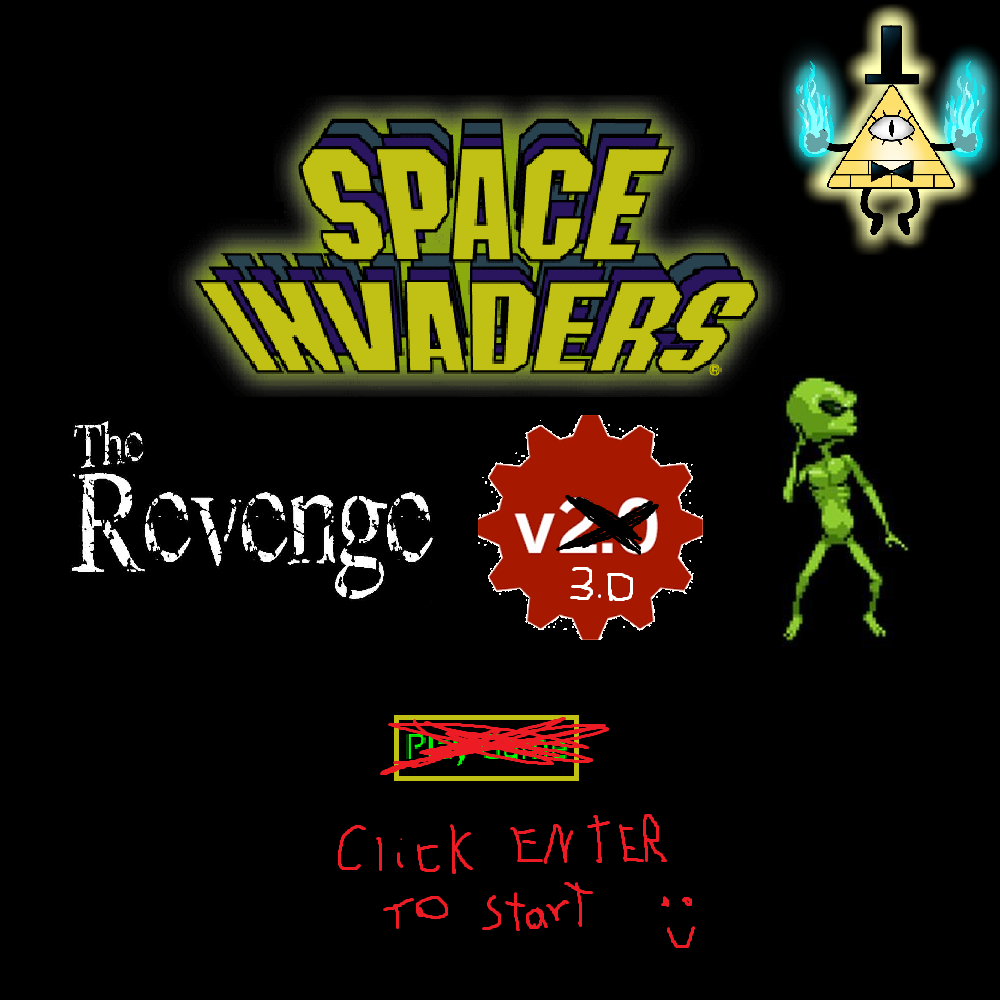
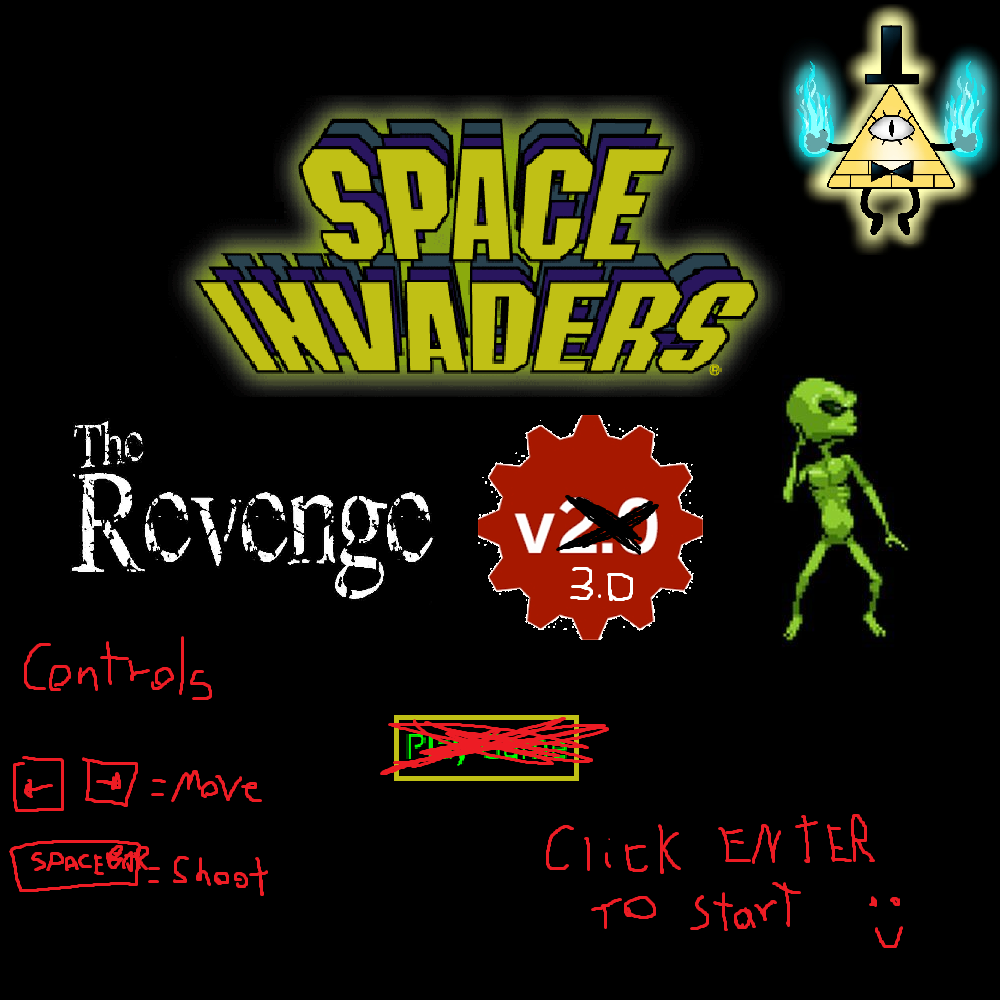
last

diff --git a/js/sketch.js b/js/sketch.js
@@ -99,7 +99,7 @@ function move(){
 
 function keyPressed(){
 	if(start && !victory && !lost)
-		if (keyCode === UP_ARROW){
+		if (keyCode === 32){
 			nave.disparo(new Disparo(40, 40, nave.x, nave.y-nave.h, disparoImg, -10));
 			naveLaser.play();
 		}
